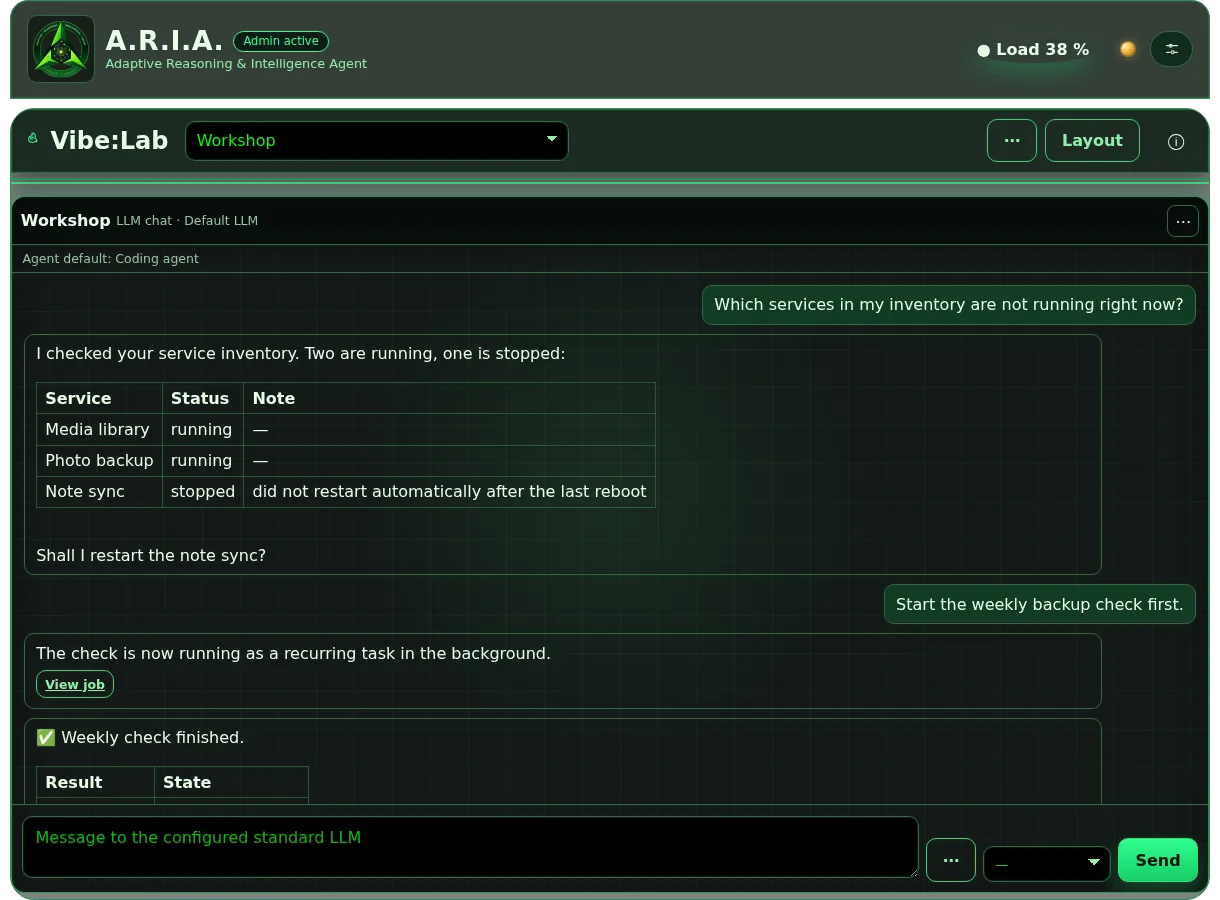
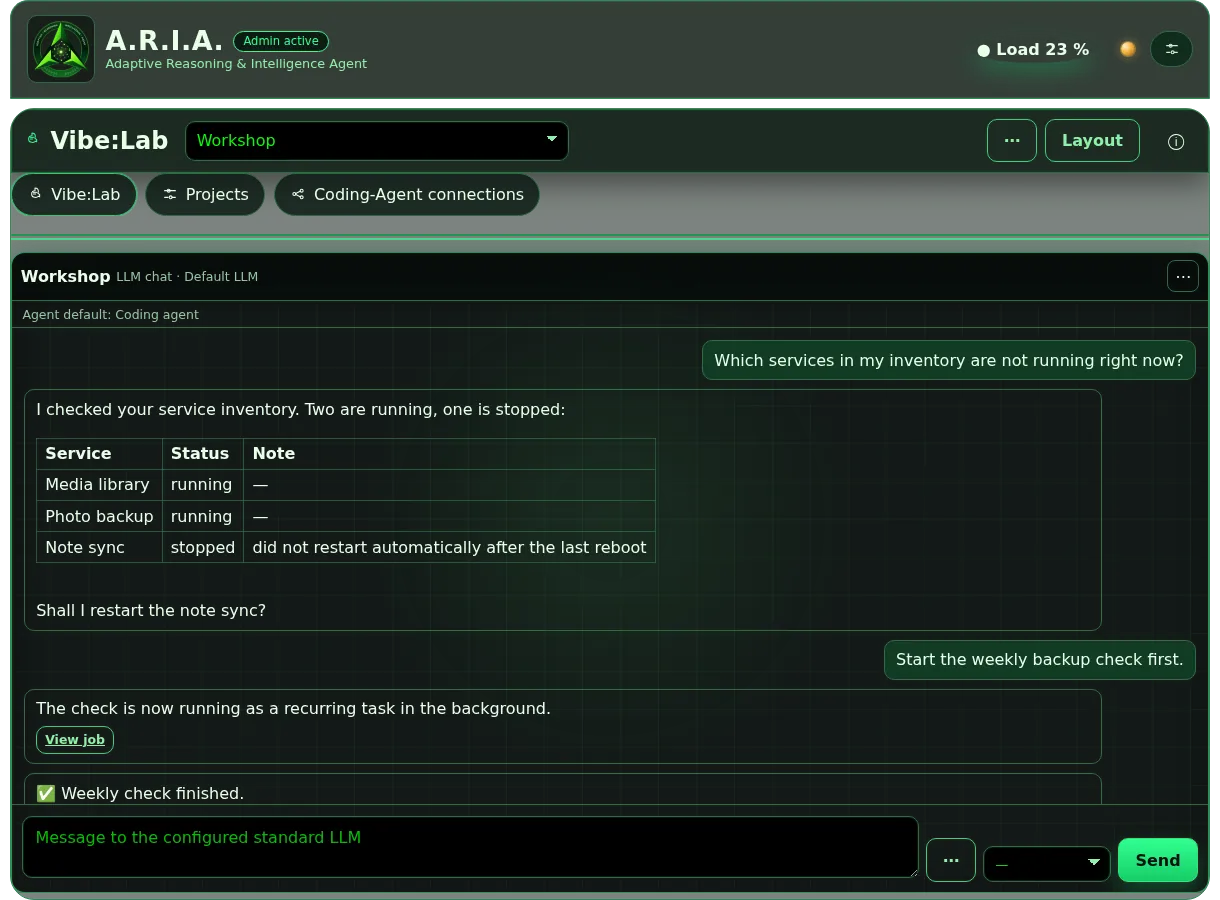
docs: publish alpha1102-1106 build content

diff --git a/CHANGELOG.de.md b/CHANGELOG.de.md
@@ -1,5 +1,93 @@
 # Changelog
 
+## 0.1.0-alpha1106 - 2026-11-11 [intern]
+
+### Neu
+
+- Chat-Antworten stellen Markdown-Überschriften (`#` bis `######`) jetzt als echte Überschriften dar statt als Text mit Rauten. Blanke Web-Adressen (`https://…`) sind klickbar, und nummerierte Listen, die durch Absätze unterbrochen sind, behalten ihre Nummern (2., 3. …) statt jedes Mal bei 1. zu beginnen.
+
+### Geändert
+
+- Auf der Projekt-Seite ist jeder angehängte Coding-Agent jetzt eine eigene Karte mit Rahmen: Der Agent-Name steht fett, daneben Typ, «Standard»-Marke und Status («bereit», «nicht bereit», «nicht geprüft»). Ein Agent, der auf dem Host nicht gefunden wird oder nicht angemeldet ist, zeigt einen Hinweis. «Entfernen» sitzt in der Karte des jeweiligen Agents; beim Standard-Agent steht stattdessen der Hinweis, zuerst einen anderen Standard zu wählen. Autonomie, Modell und Denkaufwand stehen in derselben Karte.
+- «Coding-Agent hinzufügen» bietet nur noch Typen an, die noch nicht angehängt sind. Sind Codex und Claude Code beide angehängt, erscheint stattdessen ein Hinweis.
+
+### Behoben
+
+- Auf schmalen Bildschirmen (Handy) lief der Abschnitt «Angehängte Coding-Agents» rechts über den Rand hinaus. Er passt sich jetzt der Breite an.
+
+## 0.1.0-alpha1105 - 2026-11-11 [intern]
+
+### Behoben
+
+- Die fertige Antwort eines Hintergrund-Auftrags blieb im Chat leer oder gekürzt, sobald man den Chat neu lud (zum Beispiel nach einem Wechsel auf eine andere Seite): Es erschien nur «Hintergrund-Auftrag fertig:» mit dem Link «Job ansehen →». Beim Neuladen wurde die Meldung aus dem ersten Absatz neu aufgebaut und alles danach verworfen. Jetzt steht die vollständige Antwort, auch nach dem Neuladen, direkt im Chat. Ältere Meldungen behalten ebenfalls alle Absätze.
+- Ein an ein Projekt angehängter Agent ohne eigenes Modell erbte das Modell des Projekts, sodass etwa Claude eine Codex-Modellkennung erhalten konnte. Er nutzt jetzt sein eigenes Standardmodell.
+
+### Geändert
+
+- Die Projekt-Einstellungen zeigen jetzt die SSH-Verbindung des Projekts statt eines «Coding-Agent-Verbindung»-Blocks. Darunter wählst du den Standard-Agent aus den angehängten Agents.
+- Coding-Agents lassen sich direkt im Projekt hinzufügen (Typ Codex oder Claude Code, Programmpfad optional). ARIA legt den Agent auf dem Host des Projekts an, prüft ihn einmal und hängt ihn an; eine separate Verbindungsseite ist dafür nicht mehr nötig.
+- Texte auf der Projekt-Seite sprechen durchgängig von «Projekt» und «hinzufügen».
+
+## 0.1.0-alpha1104 - 2026-11-11 [intern]
+
+### Behoben
+
+- Eine im Chat gestellte Frage, die als Hintergrund-Auftrag beantwortet wird, zeigt die vollständige Antwort jetzt zuverlässig direkt im Chatfenster. In alpha1103 blieb in manchen Fällen nur die gekürzte Meldung mit «Job ansehen →» stehen, weil die Erkennung zu eng gefasst war.
+
+### Geändert
+
+- Auf der Projekt-Bearbeiten-Seite heissen Felder und Schaltflächen jetzt durchgängig «Projekt» statt «Agent» (zum Beispiel «Projekt speichern», «Projektname zur Bestätigung eingeben»), und veraltete «Stufe 2»-Hinweise sind entfernt.
+
+## 0.1.0-alpha1103 - 2026-11-10 [intern]
+
+### Geändert
+
+- Eine Verbindung besitzt jetzt ihre SSH-Verbindung selbst: Alle an eine Verbindung angehängten Coding-Agents laufen über denselben Host. Die Laufzeit nutzt die SSH der Verbindung, und beim Anhängen werden nur noch Agents desselben Hosts angeboten; ein fremder Host wird abgelehnt.
+- Der Bereich «Verbindungen & Agents» heisst jetzt «Projekte», die Bearbeiten-Seite «Projekt-Einstellungen».
+- Autonomie, Modell und Denkaufwand werden nur noch pro Agent im Abschnitt «Angehängte Coding-Agents» gesetzt; die doppelten projektweiten Felder im Formular sind entfallen.
+
+## 0.1.0-alpha1102 - 2026-11-10 [intern]
+
+### Neu
+
+- Jeder an eine Verbindung angehängte Coding-Agent hat jetzt eigene Einstellungen für Autonomie, Modell und Denkaufwand. So kann zum Beispiel Claude auf derselben Verbindung mehr Rechte erhalten als Codex und umgekehrt. Die harte Sicherheitsuntergrenze und die Bestätigung gelten weiterhin immer.
+
+### Geändert
+
+- Auf der Bearbeiten-Seite einer Verbindung steht der Abschnitt «Angehängte Coding-Agents» jetzt zuoberst, direkt bei der Agent-Auswahl; dort hängst du Agents an und vergibst pro Agent die Rechte. Der Link neben der Auswahl heisst jetzt klar «Neue Coding-Agent-Verbindung anlegen» (er legt eine Verbindung an und weist nichts zu).
+
+### Behoben
+
+- Eine im Chat gestellte Frage, die als Hintergrund-Auftrag beantwortet wird, zeigt die vollständige Antwort jetzt direkt im Chatfenster. Bisher stand dort nur eine gekürzte Zusammenfassung mit «Job ansehen →», und die eigentliche Antwort lag nur im Job-Fenster. Der Link zum Job bleibt für die Schritt-Details erhalten. Coding-Agent-Aufträge in Vibe:Lab behalten ihre kompakte Zusammenfassung.
+
+## 0.1.0-alpha1101 - 2026-11-09 [intern]
+
+### Behoben
+
+- Auf dem iPhone war die Kopfzeile eines Agenten-Fensters überladen: Name, Typ-Zeile und Kontext-Anzeige drängten sich in eine Zeile und wurden abgeschnitten (zum Beispiel «Mundus P…»). Der Fenstername ist jetzt voll lesbar, die redundante Typ-Zeile entfällt auf dem Telefon, und die Kontext-Anzeige bleibt kompakt erhalten. Ausserdem war der Schliessen-Knopf (×) zu gross und sein Rahmen überschnitt die Trennlinien der Kopfzeile; er ist jetzt gleich kompakt wie das ⋯-Menü und bleibt sauber in der Zeile. Auch das ⋯-Menü neben der Arbeitsbereich-Auswahl war höher als das Auswahlfeld und ragte über die Trennlinie in den Kachelrahmen darunter; es ist jetzt gleich hoch gefasst und bleibt oberhalb der Linie.
+- Die Bearbeiten-Seite eines Vibe:Lab-Agenten (Verbindungen & Agents -> Bearbeiten) öffnete sich als komplett leere Seite ohne Kopfzeile. Ursache war ein interner Zugriff, der die Projekt-Kennung fälschlich als Arbeitsbereichs-Kennung behandelte und so bei jedem Agenten einen Fehler auslöste. Die Seite wird wieder vollständig angezeigt.
+- Unerwartete Fehler auf Vibe:Lab-Seiten werden jetzt immer protokolliert (vorher blieben manche stumm), damit solche Fälle nicht mehr unbemerkt bleiben.
+
+## 0.1.0-alpha1100 - 2026-11-09 [intern]
+
+### Behoben
+
+- In der geöffneten Vibe:Lab-Arbeitsfläche erscheint jetzt oben dieselbe Navigationsleiste wie auf den übrigen Vibe:Lab-Seiten (Vibe:Lab · Verbindungen & Agents · Coding-Agent-Verbindungen). Bisher war sie nur im leeren Zustand sichtbar, sodass die Verwaltungsseiten aus einer offenen Arbeitsfläche nur über das Hauptmenü «Verbindungen» erreichbar waren.
+
+## 0.1.0-alpha1099 - 2026-11-09 [intern]
+
+### Neu
+
+- Eine Verbindung (Projektordner und Host) wird jetzt einmal definiert; an sie lassen sich beliebig viele Coding-Agents anhängen (zum Beispiel Codex und Claude Code). Bisher brauchte jeder Agent ein eigenes, dupliziertes Projekt mit demselben Ordner.
+- Jedes Agenten-Fenster wählt, welchen angehängten Agent es nutzt; LLM-Chat und Terminal brauchen weiterhin nur die Verbindung.
+- Bestehende doppelte Projekte mit gleichem Ordner und Host werden beim Update automatisch zu einer Verbindung zusammengeführt. Laufende und archivierte Durchläufe bleiben erhalten und behalten ihren Agent; der frühere Name bleibt bestehen und kann danach umbenannt werden.
+
+### Behoben
+
+- Auf iPad und Telefon lässt sich im noch nicht zugewiesenen Fenster jetzt direkt ein Agent wählen: Das Feld «Agent wählen» erscheint im Fenster selbst, nicht mehr nur im ⋯-Menü.
+- Auf dem Telefon haben die Rahmen von Workspace-Menü und Fenster-Knöpfen (⋯, ×) wieder genug Abstand und berühren sich nicht mehr.
+- Ein Fenster zu schliessen hinterlässt kein leeres Fenster mehr; es bleibt immer ein Fenster aktiv.
+
 ## 0.1.0-alpha1098 - 2026-11-09 [intern]
 
 ### Behoben
@@ -2172,12 +2260,12 @@ Format: `Added` / `Changed` / `Fixed` / `Security` / `Known Limitations` / `Upgr
 
 ### alpha681 — Fixed
 
-- **Public-vs-local Current-Fact-Kollisionen fragen jetzt zwingend zurueck, bevor eine lokale Connection-Action geplant wird.** Wenn eine aktuelle oeffentliche Faktfrage wie `welche Version ist aktuell bei Home Assistant` durch eine passende lokal konfigurierte Connection faelschlich als Runtime-Action gebunden wird, ersetzt die MetaCatalog-Recovery den Turn vor Web/Runtime durch `ask_clarification`: oeffentliche aktuelle Version/Information oder lokale Instanz/Quelle auf dem gebundenen Ziel. Der Fix ist generisch auf `ConnectionActionContract` gebaut, nicht SSH- oder Home-Assistant-spezifisch, und schuetzt damit auch HTTP-API/weitere modulare Connection-Actions. Explizite lokale Ziel-/Instanzfragen wie `welche Version laeuft auf ubnsrv-homeassistant` bleiben Runtime-faehig. Covered by `tests/test_agentic_context_runtime.py::test_current_fact_connection_action_without_explicit_local_authority_requires_clarification`, `...::test_current_fact_connection_clarification_is_generic_for_non_ssh_actions`, `...::test_current_fact_named_connection_ref_does_not_require_connection_clarification`, and `...::test_current_fact_connection_clarification_arbitration_asks_public_or_local`.
+- **Public-vs-local Current-Fact-Kollisionen fragen jetzt zwingend zurueck, bevor eine lokale Connection-Action geplant wird.** Wenn eine aktuelle oeffentliche Faktfrage wie `welche Version ist aktuell bei Home Assistant` durch eine passende lokal konfigurierte Connection fälschlich als Runtime-Action gebunden wird, ersetzt die MetaCatalog-Recovery den Turn vor Web/Runtime durch `ask_clarification`: oeffentliche aktuelle Version/Information oder lokale Instanz/Quelle auf dem gebundenen Ziel. Der Fix ist generisch auf `ConnectionActionContract` gebaut, nicht SSH- oder Home-Assistant-spezifisch, und schuetzt damit auch HTTP-API/weitere modulare Connection-Actions. Explizite lokale Ziel-/Instanzfragen wie `welche Version laeuft auf ubnsrv-homeassistant` bleiben Runtime-faehig. Covered by `tests/test_agentic_context_runtime.py::test_current_fact_connection_action_without_explicit_local_authority_requires_clarification`, `...::test_current_fact_connection_clarification_is_generic_for_non_ssh_actions`, `...::test_current_fact_named_connection_ref_does_not_require_connection_clarification`, and `...::test_current_fact_connection_clarification_arbitration_asks_public_or_local`.
 - **Arbeitsvertrag nachgezogen:** `docs/ai-context/07-agentic-routing-acceptance-contract.md` verlangt nun explizit "Problemklasse vor Fix-Ort", damit sichtbare Einzelfaelle wie `SSH/Home Assistant` nicht mehr zu engen Sonderfall-Patches fuehren.
 
 ### alpha680 — Fixed
 
-- **Aktuelle externe Faktfragen werden nach falschem MetaCatalog-Connections-Routing auf Web-Recovery gezogen.** Wenn Prompts wie `welches ist die neuste apple watch ultra`, `was ist das neueste iPhone` oder `welche Version ist aktuell bei Home Assistant` vom MetaCatalog faelschlich als lokale `connections:search`/semantische RSS-Action geplant werden, gewinnt nun der bestehende source-bound Web-Fallback statt einer leeren lokalen Quellenantwort oder eines unklaren Action-Preflights. Explizit genannte Feed-Leseauftraege wie `lies mac-i-neueste-meldungen ...` bleiben ausgenommen. Covered by `tests/test_agentic_context_runtime.py::test_current_product_question_misrouted_to_empty_connections_requires_web_recovery`, `tests/test_agentic_context_runtime.py::test_current_product_question_misrouted_to_semantic_rss_action_requires_web_recovery`, and `tests/test_agentic_context_runtime.py::test_explicit_named_rss_read_does_not_require_web_recovery`.
+- **Aktuelle externe Faktfragen werden nach falschem MetaCatalog-Connections-Routing auf Web-Recovery gezogen.** Wenn Prompts wie `welches ist die neuste apple watch ultra`, `was ist das neueste iPhone` oder `welche Version ist aktuell bei Home Assistant` vom MetaCatalog fälschlich als lokale `connections:search`/semantische RSS-Action geplant werden, gewinnt nun der bestehende source-bound Web-Fallback statt einer leeren lokalen Quellenantwort oder eines unklaren Action-Preflights. Explizit genannte Feed-Leseauftraege wie `lies mac-i-neueste-meldungen ...` bleiben ausgenommen. Covered by `tests/test_agentic_context_runtime.py::test_current_product_question_misrouted_to_empty_connections_requires_web_recovery`, `tests/test_agentic_context_runtime.py::test_current_product_question_misrouted_to_semantic_rss_action_requires_web_recovery`, and `tests/test_agentic_context_runtime.py::test_explicit_named_rss_read_does_not_require_web_recovery`.
 - **Contract-Preflight bestaetigt keine unsichtbare Aktion mehr.** Bei routed Pending-Actions mit `turn_contract_action_preflight` zeigt der Confirmation-Text jetzt eine konkrete Payload-Zusammenfassung aus Capability, Ziel und Inhalt, z.B. `RSS lesen: rss/mac-i-neueste-meldungen; Home Assistant Version`, statt die widerspruechliche Dry-Run-Summary `ARIA wuerde diese Aktion ohne weitere Rueckfrage freigeben.` zu uebernehmen. Covered by `tests/test_agentic_context_runtime.py::test_routed_confirmation_with_contract_preflight_shows_concrete_read_action`.
 
 ### alpha679 — Fixed
@@ -4182,7 +4270,7 @@ Public roll-up release covering the already internally tested `alpha111` to `alp
 ### Fixed
 - Chat-Antworten koennen jetzt auch sichere interne Markdown-Links wie `/updates` oder `/config/backup/export` rendern; dadurch funktionieren neue Chat-Hilfen fuer Backup, Update, Stats und Aktivitäten als echte klickbare Aktionen statt nur als Text
 - auf `/config` und `/config/connections/searxng` zeigt ARIA jetzt klar, wenn der SearXNG-Stackdienst fehlt oder nur mit Warnstatus antwortet, statt die Websearch-Connection kommentarlos wie einen normal verfuegbaren Dienst wirken zu lassen
-- ein `HTTP 403` vom internen SearXNG-Stack wird nicht mehr faelschlich als "Stackdienst nicht erreichbar" dargestellt; ARIA markiert den Dienst jetzt als erreichbar mit Warnstatus und erklaert, dass meist `format=json` oder eine Limiter-/Zugriffsregel die JSON-Probe blockiert
+- ein `HTTP 403` vom internen SearXNG-Stack wird nicht mehr fälschlich als "Stackdienst nicht erreichbar" dargestellt; ARIA markiert den Dienst jetzt als erreichbar mit Warnstatus und erklaert, dass meist `format=json` oder eine Limiter-/Zugriffsregel die JSON-Probe blockiert
 - der interne GUI-Update-Pfad fuer `aria-pull`-Setups prueft nach dem Recreate jetzt auch ohne `curl` zuverlaessig per Container-Python auf `/health`, statt den Lauf nur mit einem uebersprungenen Host-Healthcheck enden zu lassen
 - die lokalen Update-Helfer (`update-local-aria.sh`, `pull-from-dev.sh`, `aria-host-update.sh`, `export-local-build.sh`) verwenden jetzt portable TAR-Auswahl-Logik statt GNU-awk-spezifischer `match(..., ..., array)`-Muster; dadurch bricht der GUI-Update-Flow in schlankeren Runtime-Umgebungen nicht mehr mit `awk`-Syntaxfehlern ab
 - der `/updates`-Button kann den Update-Helper jetzt auch per AJAX anstossen und faellt fuer Admins bei kurzen Container-Restarts nicht mehr so leicht auf eine leere Browser-Fehlerseite zurueck

diff --git a/CHANGELOG.md b/CHANGELOG.md
@@ -1,5 +1,93 @@
 # Changelog
 
+## 0.1.0-alpha1106 - 2026-11-11 [intern]
+
+### Added
+
+- Chat answers now render Markdown headings (`#` to `######`) as real headings instead of text with hash signs. Bare web addresses (`https://…`) are clickable, and numbered lists interrupted by paragraphs keep their numbers (2., 3. …) instead of restarting at 1. each time.
+
+### Changed
+
+- On the project page every attached coding agent is now its own framed card: the agent name is bold, next to it the type, a «Default» marker and the status («ready», «not ready», «not checked»). An agent that is not found on the host or not logged in shows a hint. «Remove» sits inside the card of the respective agent; the default agent shows a note to choose another default first instead. Autonomy, model and reasoning effort are in the same card.
+- «Add coding agent» now only offers types that are not attached yet. When Codex and Claude Code are both attached, a note appears instead.
+
+### Fixed
+
+- On narrow screens (phone) the «Attached coding agents» section ran past the right edge. It now fits the width.
+
+## 0.1.0-alpha1105 - 2026-11-11 [intern]
+
+### Fixed
+
+- The finished answer of a background job stayed empty or shortened in the chat whenever the chat was reloaded (for example after switching to another page): only «Background task finished:» with the «View job →» link appeared. On reload the notice was rebuilt from its first paragraph and everything after it was discarded. The full answer now appears directly in the chat, including after a reload. Older notices keep all their paragraphs as well.
+- An agent attached to a project without a model of its own inherited the project's model, so Claude could for example receive a Codex model identifier. It now uses its own default model.
+
+### Changed
+
+- Project settings now show the project's SSH connection instead of a «Coding-Agent connection» block. Below it you pick the default agent from the attached agents.
+- Coding agents can be added directly in the project (type Codex or Claude Code, program path optional). ARIA creates the agent on the project's host, checks it once and attaches it; a separate connection page is no longer needed for this.
+- Texts on the project page consistently say «project» and «add».
+
+## 0.1.0-alpha1104 - 2026-11-11 [intern]
+
+### Fixed
+
+- A question asked in the chat that is answered as a background job now reliably shows its full answer directly in the chat window. In alpha1103 some cases still showed only the shortened «View job →» notice because the detection was too narrow.
+
+### Changed
+
+- On the project edit page the fields and buttons now consistently say «Project» instead of «Agent» (for example «Save project», «Type the project name to confirm»), and obsolete «stage 2» hints have been removed.
+
+## 0.1.0-alpha1103 - 2026-11-10 [intern]
+
+### Changed
+
+- A connection now owns its SSH connection: every coding agent attached to a connection runs over the same host. The runtime uses the connection's SSH, and the attach list only offers agents on that same host; a foreign host is refused.
+- The «Connections & Agents» area is now called «Projects», and its edit page «Project settings».
+- Autonomy, model and reasoning effort are now set only per agent in the «Attached coding agents» section; the duplicated project-wide fields in the form have been removed.
+
+## 0.1.0-alpha1102 - 2026-11-10 [intern]
+
+### Added
+
+- Each coding agent attached to a connection now has its own settings for autonomy, model and reasoning effort. For example, Claude can be given more rights than Codex on the same connection, and vice versa. The hard safety floor and confirmation still always apply.
+
+### Changed
+
+- On a connection's edit page the «Attached coding agents» section now sits at the top, next to the agent selector; that is where you attach agents and set each agent's rights. The link next to the selector now clearly reads «Create a new Coding-Agent connection» (it creates a connection and assigns nothing).
+
+### Fixed
+
+- A question asked in the chat that is answered as a background job now shows its full answer directly in the chat window. Previously only a shortened summary with «View job →» appeared there, and the actual answer lived only in the job window. The link to the job is kept for the step details. Coding-agent jobs in Vibe:Lab keep their compact summary.
+
+## 0.1.0-alpha1101 - 2026-11-09 [intern]
+
+### Fixed
+
+- On iPhone the header of an agent window was overcrowded: the name, type line and context indicator were squeezed into one row and truncated (for example «Mundus P…»). The window name is now fully readable, the redundant type line is dropped on phones, and the context indicator stays in a compact form. The close button (×) was also too large and its border overlapped the header divider lines; it is now as compact as the ⋯ menu and stays cleanly within the row. The ⋯ menu next to the workspace selector was also taller than the select field and crossed the divider into the pane frame below; it is now bounded to the same height and stays above the line.
+- The edit page of a Vibe:Lab agent (Connections & Agents -> Edit) opened as a completely blank page with no header. The cause was an internal lookup that mistakenly treated the project identifier as a workspace identifier and raised an error for every agent. The page renders fully again.
+- Unexpected errors on Vibe:Lab pages are now always logged (some used to be silent), so such cases can no longer go unnoticed.
+
+## 0.1.0-alpha1100 - 2026-11-09 [intern]
+
+### Fixed
+
+- The open Vibe:Lab workspace now shows the same navigation bar at the top as the other Vibe:Lab pages (Vibe:Lab · Connections & Agents · Coding-agent connections). Previously it appeared only in the empty state, so from an open workspace the management pages were reachable only through the main «Connections» menu.
+
+## 0.1.0-alpha1099 - 2026-11-09 [intern]
+
+### Added
+
+- A connection (project folder and host) is now defined once; any number of coding agents can be attached to it (for example Codex and Claude Code). Previously each agent needed its own duplicated project pointing at the same folder.
+- Each agent window chooses which attached agent it uses; LLM chat and terminal panes still need only the connection.
+- Existing duplicate projects that share a folder and host are merged into a single connection on upgrade. Running and archived runs are preserved and keep their agent; the earlier name is kept and can be renamed afterwards.
+
+### Fixed
+
+- On iPad and phone an unbound window now offers a direct agent picker: the «Choose agent» control appears in the window itself, no longer only in the ⋯ menu.
+- On phones the workspace menu and the window buttons (⋯, ×) have enough spacing again and no longer touch.
+- Closing a window no longer leaves an empty window; one window always stays active.
+
 ## 0.1.0-alpha1098 - 2026-11-09 [intern]
 
 ### Fixed
